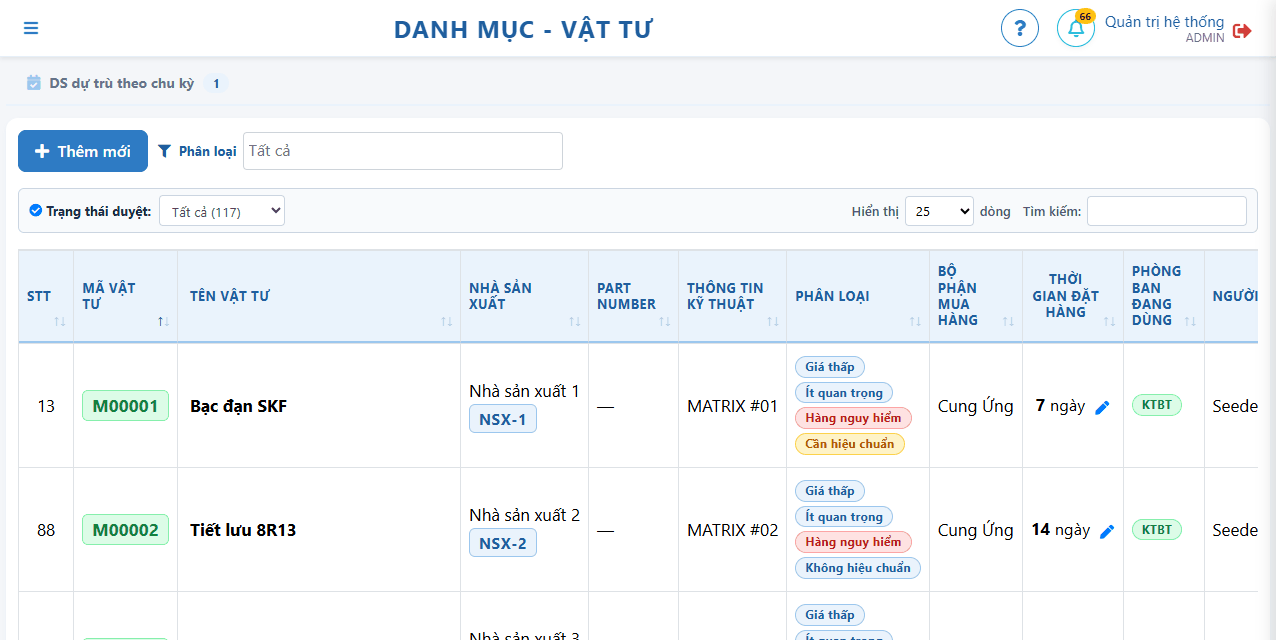
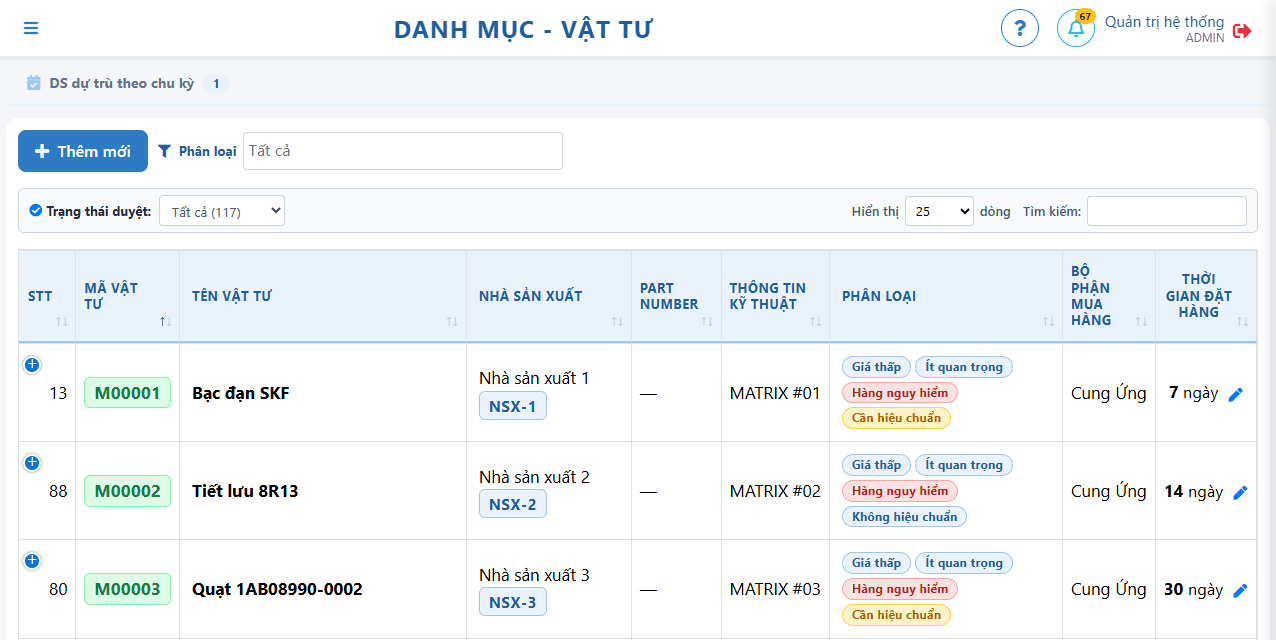
02/11/2026

diff --git a/resources/views/layout/master.blade.php b/resources/views/layout/master.blade.php
@@ -587,6 +587,14 @@
                 if ($table.is('[data-no-fit]')) return;
                 if ($table.data('mdFitApplied')) return;
 
+                /*
+                | Bảng nạp dòng sau (data-deferred, pages/shared/deferredRows): lúc khởi
+                | tạo chưa có dòng nào, đo lúc đó thì cột nào cũng thành "ngắn" và bị cấm
+                | xuống dòng - CAS / Nhà sản xuất dài dàn thành một dòng, kéo bảng rộng
+                | gấp rưỡi khung nhìn. Chờ dòng về (sự kiện md:rows-loaded) rồi mới đo.
+                */
+                if ($table.is('[data-deferred]') && !$table.is('[data-deferred-loaded]')) return;
+
                 // Tiêu đề nhiều tầng hoặc có ô gộp: để nguyên cho chắc
                 var $headRows = $table.children('thead').children('tr');
                 if ($headRows.length !== 1) return;
@@ -646,11 +654,19 @@
 
                 var fitCols = [];
                 var flexCols = [];
+                var textCols = [];
 
                 $heads.each(function (i) {
                     if (lens[i] > FIT_MAX || $(this).hasClass('md-col-name')) {
                         flexCols.push(idx[i]);
                         $(this).addClass('md-col-flex');
+
+                        // Cột chữ dài KHÔNG phải cột tên (Số CAS, Nhà Sản Xuất...): màn hình
+                        // nào cần chặn bề rộng tối đa thì đặt max-width cho .md-col-text
+                        if (!$(this).hasClass('md-col-name')) {
+                            textCols.push(idx[i]);
+                            $(this).addClass('md-col-text');
+                        }
                         return;
                     }
 
@@ -670,9 +686,21 @@
                     flexCols.forEach(function (c) {
                         api.column(c).nodes().to$().addClass('md-col-flex');
                     });
+                    textCols.forEach(function (c) {
+                        api.column(c).nodes().to$().addClass('md-col-text');
+                    });
                 }
 
                 paint();
+
+                /*
+                | Responsive chia cột từ lúc khởi tạo, trước khi cột được co / giãn ở trên:
+                | tính lại để cột không còn chỗ thu vào dòng con thay vì kéo bảng tràn ngang.
+                | Dùng columns.adjust() (Responsive nghe sự kiện column-sizing) chứ không
+                | gọi responsive.recalc(): layout/js nạp lại jquery.dataTables.min.js sau
+                | plugin Responsive nên Api ở đây không có nhánh .responsive.
+                */
+                api.columns.adjust();
 
                 // Sang trang / tìm kiếm / sắp xếp: gắn lại cho các dòng vừa dựng
                 $table.on('draw.dt', paint);
@@ -681,7 +709,7 @@
                 $table.one('destroy.dt', function () {
                     $table.off('draw.dt', paint).removeData('mdFitApplied');
                     $table.children('thead, tbody').children('tr').children('th, td')
-                        .removeClass('md-col-fit md-col-flex');
+                        .removeClass('md-col-fit md-col-flex md-col-text');
                 });
 
                 $table.data('mdFitApplied', true);
@@ -712,6 +740,7 @@
 
             // Bảng dựng sau (tab nạp bằng AJAX, modal...) cũng được tính
             $(document).on('init.dt', schedule);
+            $(document).on('md:rows-loaded', schedule);
             $(document).ready(schedule);
 
             // Bảng thường (không DataTables) nạp bằng AJAX vẫn cần cột tên đủ rộng

diff --git a/resources/views/layout/css.blade.php b/resources/views/layout/css.blade.php
@@ -410,10 +410,13 @@
             }
 
             /* Cột chữ dài: hưởng phần rộng dư, nhưng không hẹp quá mức đọc được.
-               Khi màn hình quá nhỏ thì .table-responsive cuộn ngang. */
+               Khi màn hình quá nhỏ thì .table-responsive cuộn ngang.
+               !important: DataTables Responsive đo bề rộng tối thiểu trên bản sao tiêu
+               đề có gắn inline min-width:0 - thiếu nó Responsive tưởng bảng vừa khung
+               nên không thu cột vào dòng con, bảng thật lại tràn ngang. */
             .table th.md-col-flex,
             table.dataTable th.md-col-flex {
-                  min-width: 120px;
+                  min-width: 120px !important;
             }
 
             .table td.md-col-flex,
@@ -426,12 +429,14 @@
                gắn .md-col-name theo chữ tiêu đề): thông tin chính của bảng nên luôn
                đủ rộng để đọc tên trên 1-2 dòng, thắng cả width đặt cứng trong blade.
                Màn hình hẹp thì .table-responsive cuộn ngang thay vì bóp cột tên. */
-            table th.md-col-name {
+            table th.md-col-name,
+            table.dataTable th.md-col-name {
                   min-width: 240px !important;
             }
 
             @media (max-width: 767.98px) {
-                  table th.md-col-name {
+                  table th.md-col-name,
+                  table.dataTable th.md-col-name {
                         min-width: 180px !important;
                   }
             }

diff --git a/resources/views/pages/category/shared/assets.blade.php b/resources/views/pages/category/shared/assets.blade.php
@@ -223,6 +223,15 @@
         border: 1px solid #FCA5A5;
     }
 
+    /* ---------- Bề rộng tối đa của cột chữ dài ----------
+       Số CAS, Nhà Sản Xuất, Phòng Ban Đang Dùng... (mdFitColumns ở layout/master gắn
+       .md-col-text cho cột chữ dài không phải cột tên): dữ liệu dài xuống dòng thay vì
+       kéo cột - và cả bảng - rộng ra; phần rộng còn dư dồn cho cột tên. */
+    table.dataTable th.md-col-text,
+    table.dataTable td.md-col-text {
+        max-width: 260px;
+    }
+
     /* ---------- Badge số lần thay đổi, gắn ở góc trên bên phải nút Sửa ---------- */
     .cat-btn-wrap {
         position: relative;
